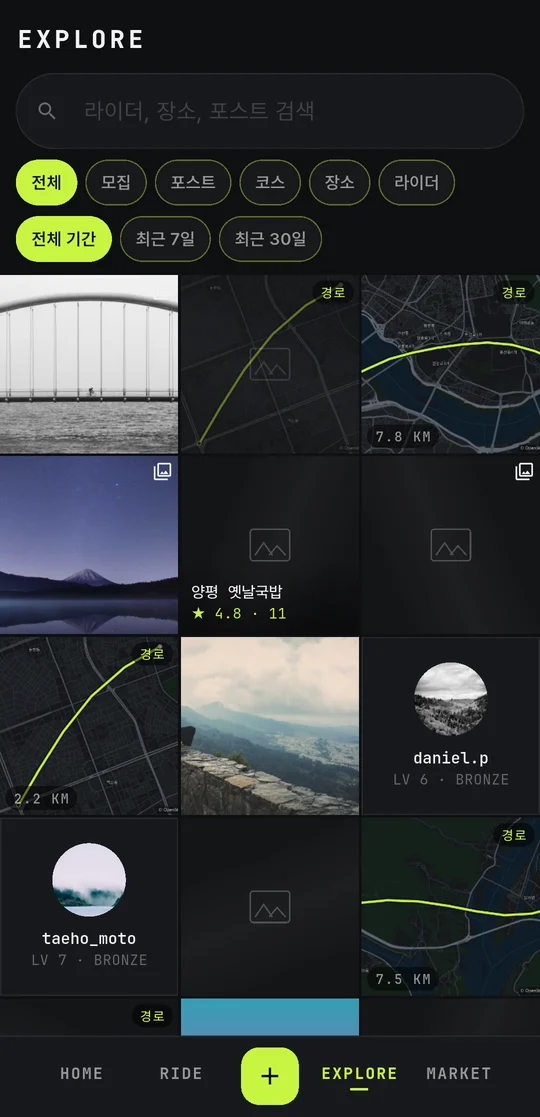
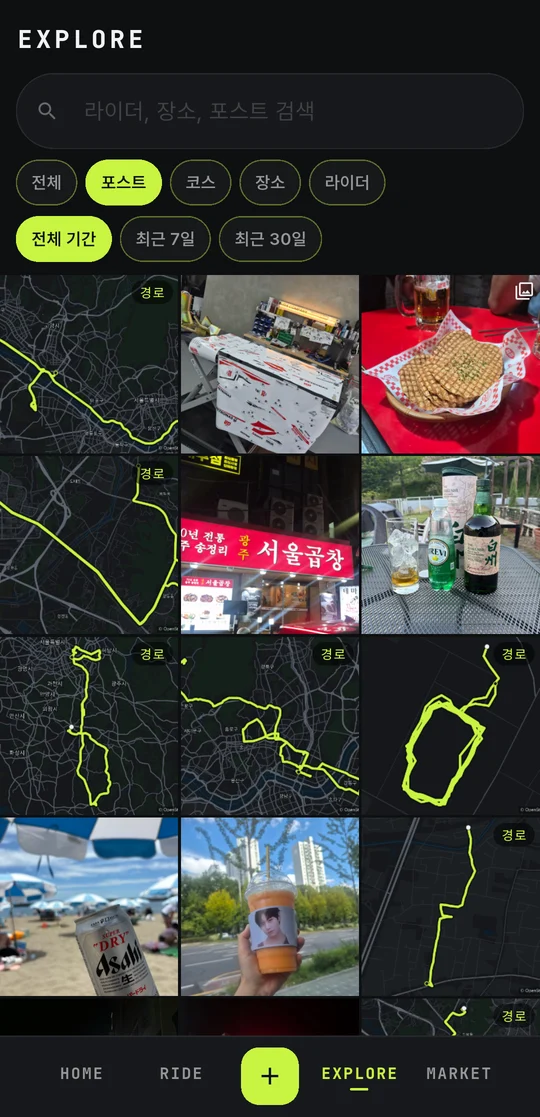
feat(site): 피드·탐색 사진을 PROD 실데이터로

diff --git a/index.html b/index.html
@@ -336,7 +336,7 @@ body { line-height: 1.7; }
             <ul class="points"><li>백그라운드 기록</li><li>오프라인 우선 저장</li><li>코스 담기 · 따라가기</li><li>달린 만큼 레벨</li></ul>
             
           </div>
-          <div class="phone-shot"><img src="./shots/ride_detail2.webp" alt="라이딩 상세 — 지도와 수치, +71 XP" loading="lazy" width="540" height="1244"></div>
+          <div class="phone-shot"><img src="./shots/feed2.webp" alt="피드 — 경로 카드와 사진 글" loading="lazy" width="540" height="1244"></div>
         </div>
         <div class="core-row">
           <div class="core-text">
@@ -346,7 +346,7 @@ body { line-height: 1.7; }
             <ul class="points"><li>주행 중 원터치 핀</li><li>라이더의 장소 평</li><li>피드 · 공유 카드</li><li>맛집 · 카페 · 휴게소</li></ul>
             
           </div>
-          <div class="phone-shot"><img src="./shots/place.webp" alt="장소 상세 — 라이더가 남긴 평" loading="lazy" width="540" height="1244"></div>
+          <div class="phone-shot"><img src="./shots/explore.webp" alt="탐색 — 라이더들의 포스트" loading="lazy" width="540" height="1244"></div>
         </div>
       </div>
     </div>
